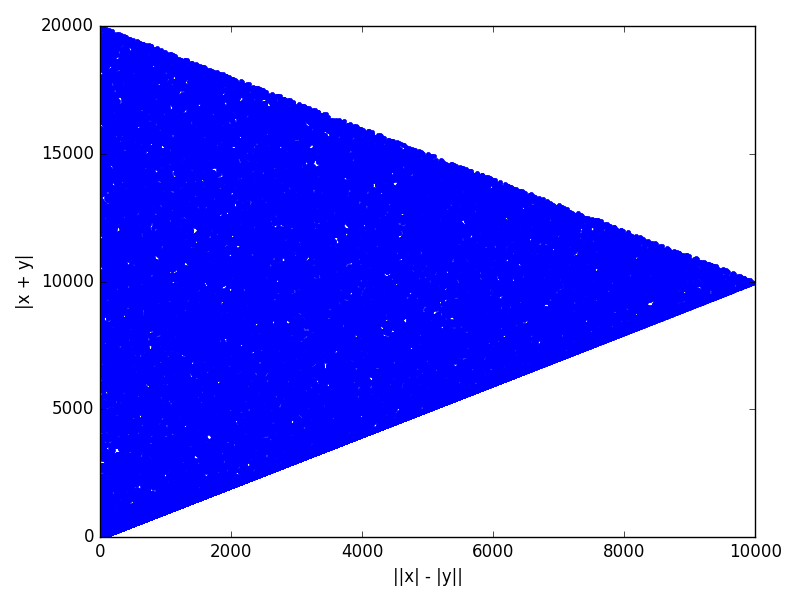
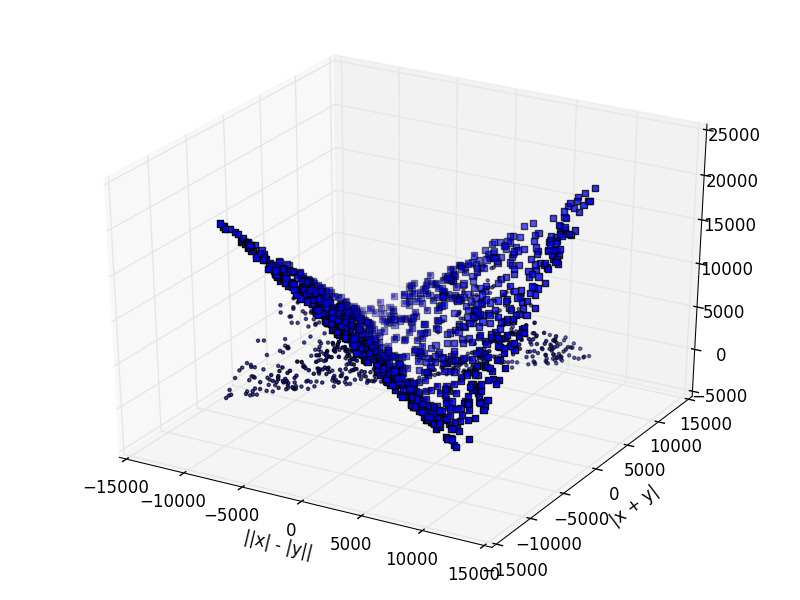
Both 2d and 3d plots are added.
Former-commit-id: a222d7246cc8dd48e4e07f974f9fd66d12cef359
Former-commit-id: 9714db80c5d9beb568a3be5a924c76178aa92c49

diff --git a/Calculus2016/Homework1/homework1.tex b/Calculus2016/Homework1/homework1.tex
@@ -1,4 +1,5 @@
-\documentclass[12pt]{article}
+\documentclass[12pt,twocolumn]{article}
+\usepackage[margin=20mm]{geometry}
 \usepackage{ifthen,empheq}
 \usepackage[]{graphicx}
 \usepackage[]{minted}
@@ -72,7 +73,7 @@ Now we can use {\bf intervals } to rewrite it i.e. $x = { (a+c, b+c) \cup
 
 \begin{figure}[ht!]
     \centering
-    \includegraphics[width=\textwidth]{./sol1_a.py.png}
+    \includegraphics[width=\columnwidth]{./sol1_a.py.png}
     \caption{Numerical solution to problem 1(a)}
     \label{fig:1a}
 \end{figure}
@@ -91,7 +92,7 @@ the simulation result in figure \ref{fig:1b}.
 
 \begin{figure}[ht!]
 \begin{center}
-    \includegraphics[width=1\textwidth]{./sol1_b.py.png}
+    \includegraphics[width=1\columnwidth]{./sol1_b.py.png}
 \end{center}
 \caption{Solution to solution 1(b)}
 \label{fig:1b}
@@ -120,7 +121,7 @@ The simulation shown in figure \ref{fig:2a} shows that it is true.
 
 \begin{figure}[ht!]
 \begin{center}
-    \includegraphics[width=1\textwidth]{./sol2_a.py}
+    \includegraphics[width=1\columnwidth]{./sol2_a.py}
 \end{center}
 \caption{ $||x|-|y||$ is always less or equal to $|x+y|$}
 \label{fig:2a}
@@ -130,7 +131,15 @@ The simulation shown in figure \ref{fig:2a} shows that it is true.
 Write the set $\{x: |x^2-2x-3|>x\}$ as a union of intervals (i.e. figure out
 explicitly for which x this statement is true)
 
+\solution
 
+First, lets see for what values of $x$, we have $x^2 - 2x - 3$ positive or
+negative. We have $(x-3)(x+1)$ as factors. So for $(-\infty, -1] \cup [3,
+\infty)$ it is positive and for rest, its negative.
+
+For the positive case $ x^2 - 2x - 3 > x$ and for negative we have $ - x^2 + 2x
++ 3 > x$. Solve for both cases and check if solution lies in the intervals
+computed before.
 
 
 \section{Appendix}

diff --git a/Calculus2016/Homework1/sol2_a.py b/Calculus2016/Homework1/sol2_a.py
@@ -5,17 +5,26 @@ import random
 
 import matplotlib as mpl
 import matplotlib.pyplot as plt
+from mpl_toolkits.mplot3d import Axes3D
 
 def main():
-    xs = np.random.randint(-10000, 10000, 10**5)
-    ys = np.random.randint(-10000, 10000, 10**5)
+    fig = plt.figure()
+    ax = plt.axes( projection = '3d' )
+    xs = np.random.randint(-10000, 10000, 10**3)
+    ys = np.random.randint(-10000, 10000, 10**3)
     v1 = np.abs( np.abs(xs) - np.abs( ys ) )
     v2 = np.abs( xs + ys )
-    plt.plot( v1, v2,  '.' )
+    ax.scatter( xs, ys, v1, marker ='.' )
+    # ax.plot_wireframe( xs, ys, v1, color ='red' )
+    # ax.plot_trisurf( xs, ys, v1, color ='red', alpha = 0.4 )
+    ax.scatter( xs, ys, v2, marker = ',' )
+    # ax.plot_wireframe( xs, ys, v2, color = 'blue' )
+    # ax.plot_trisurf( xs, ys, v2, color = 'blue', alpha = 0.4 )
     plt.xlabel( '||x| - |y||' )
     plt.ylabel( '|x + y|' )
     plt.tight_layout( )
     plt.savefig( "%s.png" % sys.argv[0] )
+    # plt.savefig( "%s_3d.png" % sys.argv[0] )
     
 
 if __name__ == '__main__':
